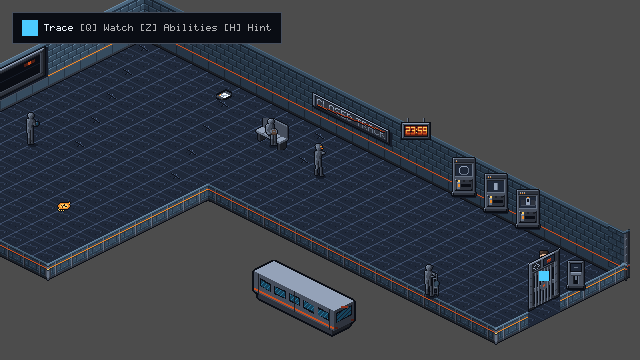
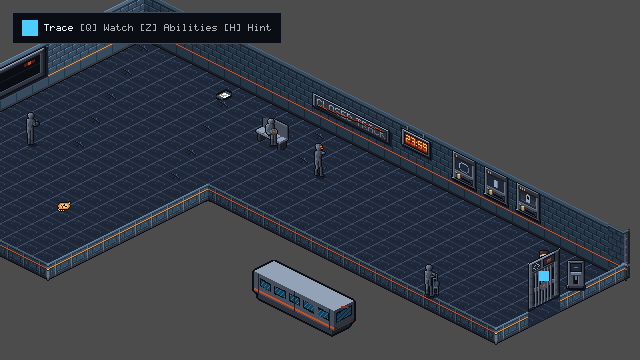
feat(TLF-069): integrate TLF-077 sheared N selectors and 23:59 clock

Changed region(s): [[0.625, 0.3361, 0.8438, 0.6417]]

diff --git a/design/art/ASSET_METADATA.md b/design/art/ASSET_METADATA.md
@@ -1102,24 +1102,24 @@ On every `32 × 64 px` wall module (`x in 0..31`), the vertical wall height is `
 
 | Row | Asset ID | Category | Source `.pxo` (`assets/source/ch01/`) | Runtime Export (`res://assets/...`) | Canvas Size (`W×H px`) | Frames / FPS | Pivot `(px_x, px_y)` | Sorting / `z_index` | Palette Colors Used | QA State |
 |---|---|---|---|---|---|---|---|---|---|---|
-| **250** | `ch01.prop.selector_line_n_pos0` | Props | `ch01_prop_selector_line_n_pos0.pxo` | `assets/props/ch01/ch01_prop_selector_line_n_pos0.png` | `32 × 48 px` | 1f (`static`) | `(0, 0)` *(or presenter `(16, 40)`)* | `Wall_Fixtures (z_index = 7)` | `10 / 32` | **`exported`** |
-| **251** | `ch01.prop.selector_line_n_pos1` | Props | `ch01_prop_selector_line_n_pos1.pxo` | `assets/props/ch01/ch01_prop_selector_line_n_pos1.png` | `32 × 48 px` | 1f (`static`) | `(0, 0)` *(or presenter `(16, 40)`)* | `Wall_Fixtures (z_index = 7)` | `10 / 32` | **`exported`** |
-| **252** | `ch01.prop.selector_line_n_pos2` | Props | `ch01_prop_selector_line_n_pos2.pxo` | `assets/props/ch01/ch01_prop_selector_line_n_pos2.png` | `32 × 48 px` | 1f (`static`) | `(0, 0)` *(or presenter `(16, 40)`)* | `Wall_Fixtures (z_index = 7)` | `10 / 32` | **`exported`** |
-| **253** | `ch01.prop.selector_platform_n_pos0` | Props | `ch01_prop_selector_platform_n_pos0.pxo` | `assets/props/ch01/ch01_prop_selector_platform_n_pos0.png` | `32 × 48 px` | 1f (`static`) | `(0, 0)` *(or presenter `(16, 40)`)* | `Wall_Fixtures (z_index = 7)` | `10 / 32` | **`exported`** |
-| **254** | `ch01.prop.selector_platform_n_pos1` | Props | `ch01_prop_selector_platform_n_pos1.pxo` | `assets/props/ch01/ch01_prop_selector_platform_n_pos1.png` | `32 × 48 px` | 1f (`static`) | `(0, 0)` *(or presenter `(16, 40)`)* | `Wall_Fixtures (z_index = 7)` | `10 / 32` | **`exported`** |
-| **255** | `ch01.prop.selector_platform_n_pos2` | Props | `ch01_prop_selector_platform_n_pos2.pxo` | `assets/props/ch01/ch01_prop_selector_platform_n_pos2.png` | `32 × 48 px` | 1f (`static`) | `(0, 0)` *(or presenter `(16, 40)`)* | `Wall_Fixtures (z_index = 7)` | `10 / 32` | **`exported`** |
-| **256** | `ch01.prop.selector_car_n_pos0` | Props | `ch01_prop_selector_car_n_pos0.pxo` | `assets/props/ch01/ch01_prop_selector_car_n_pos0.png` | `32 × 48 px` | 1f (`static`) | `(0, 0)` *(or presenter `(16, 40)`)* | `Wall_Fixtures (z_index = 7)` | `10 / 32` | **`exported`** |
-| **257** | `ch01.prop.selector_car_n_pos1` | Props | `ch01_prop_selector_car_n_pos1.pxo` | `assets/props/ch01/ch01_prop_selector_car_n_pos1.png` | `32 × 48 px` | 1f (`static`) | `(0, 0)` *(or presenter `(16, 40)`)* | `Wall_Fixtures (z_index = 7)` | `10 / 32` | **`exported`** |
-| **258** | `ch01.prop.selector_car_n_pos2` | Props | `ch01_prop_selector_car_n_pos2.pxo` | `assets/props/ch01/ch01_prop_selector_car_n_pos2.png` | `32 × 48 px` | 1f (`static`) | `(0, 0)` *(or presenter `(16, 40)`)* | `Wall_Fixtures (z_index = 7)` | `10 / 32` | **`exported`** |
-| **259** | `ch01.prop.selector_line_w_pos0` | Props | `ch01_prop_selector_line_w_pos0.pxo` | `assets/props/ch01/ch01_prop_selector_line_w_pos0.png` | `32 × 48 px` | 1f (`static`) | `(0, 15)` *(or presenter `(16, 40)`)* | `Wall_Fixtures (z_index = 7)` | `10 / 32` | **`exported`** |
-| **260** | `ch01.prop.selector_line_w_pos1` | Props | `ch01_prop_selector_line_w_pos1.pxo` | `assets/props/ch01/ch01_prop_selector_line_w_pos1.png` | `32 × 48 px` | 1f (`static`) | `(0, 15)` *(or presenter `(16, 40)`)* | `Wall_Fixtures (z_index = 7)` | `10 / 32` | **`exported`** |
-| **261** | `ch01.prop.selector_line_w_pos2` | Props | `ch01_prop_selector_line_w_pos2.pxo` | `assets/props/ch01/ch01_prop_selector_line_w_pos2.png` | `32 × 48 px` | 1f (`static`) | `(0, 15)` *(or presenter `(16, 40)`)* | `Wall_Fixtures (z_index = 7)` | `10 / 32` | **`exported`** |
-| **262** | `ch01.prop.selector_platform_w_pos0` | Props | `ch01_prop_selector_platform_w_pos0.pxo` | `assets/props/ch01/ch01_prop_selector_platform_w_pos0.png` | `32 × 48 px` | 1f (`static`) | `(0, 15)` *(or presenter `(16, 40)`)* | `Wall_Fixtures (z_index = 7)` | `10 / 32` | **`exported`** |
-| **263** | `ch01.prop.selector_platform_w_pos1` | Props | `ch01_prop_selector_platform_w_pos1.pxo` | `assets/props/ch01/ch01_prop_selector_platform_w_pos1.png` | `32 × 48 px` | 1f (`static`) | `(0, 15)` *(or presenter `(16, 40)`)* | `Wall_Fixtures (z_index = 7)` | `10 / 32` | **`exported`** |
-| **264** | `ch01.prop.selector_platform_w_pos2` | Props | `ch01_prop_selector_platform_w_pos2.pxo` | `assets/props/ch01/ch01_prop_selector_platform_w_pos2.png` | `32 × 48 px` | 1f (`static`) | `(0, 15)` *(or presenter `(16, 40)`)* | `Wall_Fixtures (z_index = 7)` | `10 / 32` | **`exported`** |
-| **265** | `ch01.prop.selector_car_w_pos0` | Props | `ch01_prop_selector_car_w_pos0.pxo` | `assets/props/ch01/ch01_prop_selector_car_w_pos0.png` | `32 × 48 px` | 1f (`static`) | `(0, 15)` *(or presenter `(16, 40)`)* | `Wall_Fixtures (z_index = 7)` | `10 / 32` | **`exported`** |
-| **266** | `ch01.prop.selector_car_w_pos1` | Props | `ch01_prop_selector_car_w_pos1.pxo` | `assets/props/ch01/ch01_prop_selector_car_w_pos1.png` | `32 × 48 px` | 1f (`static`) | `(0, 15)` *(or presenter `(16, 40)`)* | `Wall_Fixtures (z_index = 7)` | `10 / 32` | **`exported`** |
-| **267** | `ch01.prop.selector_car_w_pos2` | Props | `ch01_prop_selector_car_w_pos2.pxo` | `assets/props/ch01/ch01_prop_selector_car_w_pos2.png` | `32 × 48 px` | 1f (`static`) | `(0, 15)` *(or presenter `(16, 40)`)* | `Wall_Fixtures (z_index = 7)` | `10 / 32` | **`exported`** |
+| **250** | `ch01.prop.selector_line_n_pos0` | Props | `ch01_prop_selector_line_n_pos0.pxo` | `assets/props/ch01/ch01_prop_selector_line_n_pos0.png` | `32 × 48 px` | 1f (`static`) | `(16, 40)` | `Wall_Fixtures (z_index = 7)` | `10 / 32` | **`exported`** |
+| **251** | `ch01.prop.selector_line_n_pos1` | Props | `ch01_prop_selector_line_n_pos1.pxo` | `assets/props/ch01/ch01_prop_selector_line_n_pos1.png` | `32 × 48 px` | 1f (`static`) | `(16, 40)` | `Wall_Fixtures (z_index = 7)` | `10 / 32` | **`exported`** |
+| **252** | `ch01.prop.selector_line_n_pos2` | Props | `ch01_prop_selector_line_n_pos2.pxo` | `assets/props/ch01/ch01_prop_selector_line_n_pos2.png` | `32 × 48 px` | 1f (`static`) | `(16, 40)` | `Wall_Fixtures (z_index = 7)` | `10 / 32` | **`exported`** |
+| **253** | `ch01.prop.selector_platform_n_pos0` | Props | `ch01_prop_selector_platform_n_pos0.pxo` | `assets/props/ch01/ch01_prop_selector_platform_n_pos0.png` | `32 × 48 px` | 1f (`static`) | `(16, 40)` | `Wall_Fixtures (z_index = 7)` | `10 / 32` | **`exported`** |
+| **254** | `ch01.prop.selector_platform_n_pos1` | Props | `ch01_prop_selector_platform_n_pos1.pxo` | `assets/props/ch01/ch01_prop_selector_platform_n_pos1.png` | `32 × 48 px` | 1f (`static`) | `(16, 40)` | `Wall_Fixtures (z_index = 7)` | `10 / 32` | **`exported`** |
+| **255** | `ch01.prop.selector_platform_n_pos2` | Props | `ch01_prop_selector_platform_n_pos2.pxo` | `assets/props/ch01/ch01_prop_selector_platform_n_pos2.png` | `32 × 48 px` | 1f (`static`) | `(16, 40)` | `Wall_Fixtures (z_index = 7)` | `10 / 32` | **`exported`** |
+| **256** | `ch01.prop.selector_car_n_pos0` | Props | `ch01_prop_selector_car_n_pos0.pxo` | `assets/props/ch01/ch01_prop_selector_car_n_pos0.png` | `32 × 48 px` | 1f (`static`) | `(16, 40)` | `Wall_Fixtures (z_index = 7)` | `10 / 32` | **`exported`** |
+| **257** | `ch01.prop.selector_car_n_pos1` | Props | `ch01_prop_selector_car_n_pos1.pxo` | `assets/props/ch01/ch01_prop_selector_car_n_pos1.png` | `32 × 48 px` | 1f (`static`) | `(16, 40)` | `Wall_Fixtures (z_index = 7)` | `10 / 32` | **`exported`** |
+| **258** | `ch01.prop.selector_car_n_pos2` | Props | `ch01_prop_selector_car_n_pos2.pxo` | `assets/props/ch01/ch01_prop_selector_car_n_pos2.png` | `32 × 48 px` | 1f (`static`) | `(16, 40)` | `Wall_Fixtures (z_index = 7)` | `10 / 32` | **`exported`** |
+| **259** | `ch01.prop.selector_line_w_pos0` | Props | `ch01_prop_selector_line_w_pos0.pxo` | `assets/props/ch01/ch01_prop_selector_line_w_pos0.png` | `32 × 48 px` | 1f (`static`) | `(16, 40)` | `Wall_Fixtures (z_index = 7)` | `10 / 32` | **`exported`** |
+| **260** | `ch01.prop.selector_line_w_pos1` | Props | `ch01_prop_selector_line_w_pos1.pxo` | `assets/props/ch01/ch01_prop_selector_line_w_pos1.png` | `32 × 48 px` | 1f (`static`) | `(16, 40)` | `Wall_Fixtures (z_index = 7)` | `10 / 32` | **`exported`** |
+| **261** | `ch01.prop.selector_line_w_pos2` | Props | `ch01_prop_selector_line_w_pos2.pxo` | `assets/props/ch01/ch01_prop_selector_line_w_pos2.png` | `32 × 48 px` | 1f (`static`) | `(16, 40)` | `Wall_Fixtures (z_index = 7)` | `10 / 32` | **`exported`** |
+| **262** | `ch01.prop.selector_platform_w_pos0` | Props | `ch01_prop_selector_platform_w_pos0.pxo` | `assets/props/ch01/ch01_prop_selector_platform_w_pos0.png` | `32 × 48 px` | 1f (`static`) | `(16, 40)` | `Wall_Fixtures (z_index = 7)` | `10 / 32` | **`exported`** |
+| **263** | `ch01.prop.selector_platform_w_pos1` | Props | `ch01_prop_selector_platform_w_pos1.pxo` | `assets/props/ch01/ch01_prop_selector_platform_w_pos1.png` | `32 × 48 px` | 1f (`static`) | `(16, 40)` | `Wall_Fixtures (z_index = 7)` | `10 / 32` | **`exported`** |
+| **264** | `ch01.prop.selector_platform_w_pos2` | Props | `ch01_prop_selector_platform_w_pos2.pxo` | `assets/props/ch01/ch01_prop_selector_platform_w_pos2.png` | `32 × 48 px` | 1f (`static`) | `(16, 40)` | `Wall_Fixtures (z_index = 7)` | `10 / 32` | **`exported`** |
+| **265** | `ch01.prop.selector_car_w_pos0` | Props | `ch01_prop_selector_car_w_pos0.pxo` | `assets/props/ch01/ch01_prop_selector_car_w_pos0.png` | `32 × 48 px` | 1f (`static`) | `(16, 40)` | `Wall_Fixtures (z_index = 7)` | `10 / 32` | **`exported`** |
+| **266** | `ch01.prop.selector_car_w_pos1` | Props | `ch01_prop_selector_car_w_pos1.pxo` | `assets/props/ch01/ch01_prop_selector_car_w_pos1.png` | `32 × 48 px` | 1f (`static`) | `(16, 40)` | `Wall_Fixtures (z_index = 7)` | `10 / 32` | **`exported`** |
+| **267** | `ch01.prop.selector_car_w_pos2` | Props | `ch01_prop_selector_car_w_pos2.pxo` | `assets/props/ch01/ch01_prop_selector_car_w_pos2.png` | `32 × 48 px` | 1f (`static`) | `(16, 40)` | `Wall_Fixtures (z_index = 7)` | `10 / 32` | **`exported`** |
 | **268** | `ch01.prop.digital_clock_2359_n_idle` | Props | `ch01_prop_digital_clock_2359_n_idle.pxo` | `assets/props/ch01/ch01_prop_digital_clock_2359_n_idle.png` | `32 × 40 px` | 1f (`static`) | `(0, 0)` | `Wall_Fixtures (z_index = 7)` | `12 / 32` | **`exported`** |
 | **269** | `ch01.prop.digital_clock_2359_w_idle` | Props | `ch01_prop_digital_clock_2359_w_idle.pxo` | `assets/props/ch01/ch01_prop_digital_clock_2359_w_idle.png` | `32 × 40 px` | 1f (`static`) | `(0, 15)` | `Wall_Fixtures (z_index = 7)` | `12 / 32` | **`exported`** |
 
